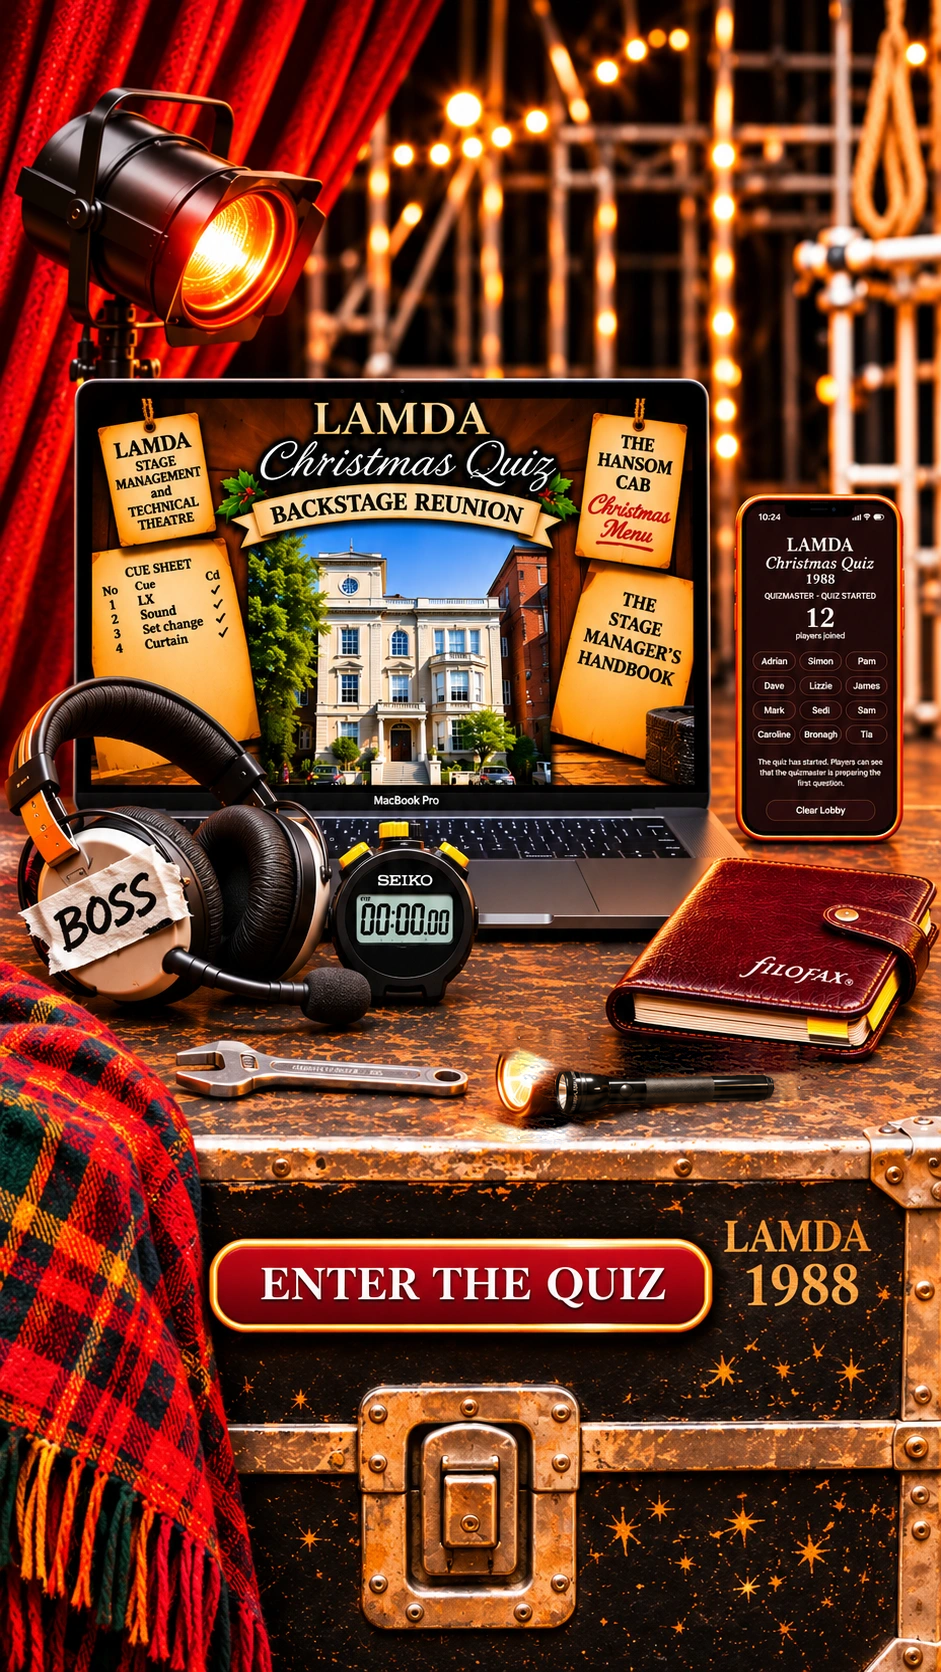
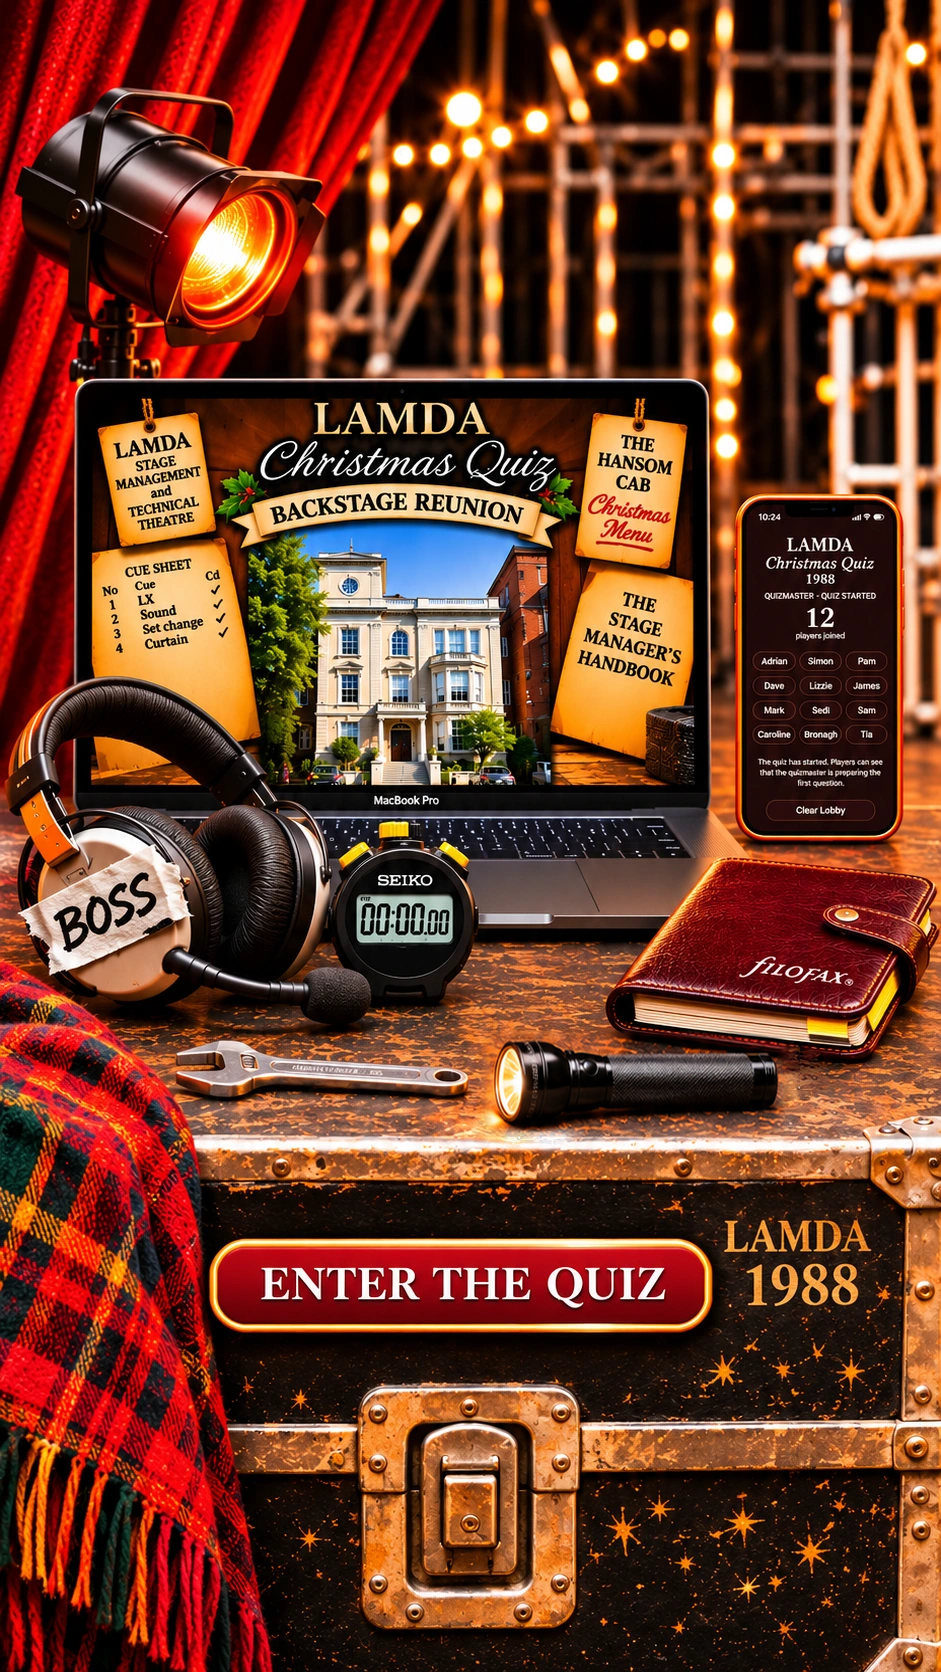
Add files via upload

Changed region(s): [[0.4931, 0.5909, 0.8321, 0.6842]]

diff --git a/index.html b/index.html
@@ -693,8 +693,8 @@ button:disabled{opacity:.5;cursor:not-allowed}
 <body>
 <div id="app"></div>
 <script>
-const PORTRAIT_SCENE = 'assets/landing-ios-maglite-v5.webp';
-const LANDSCAPE_SCENE = 'assets/landing-desktop-maglite-v5.webp';
+const PORTRAIT_SCENE = 'assets/landing-ios-maglite-v5.webp?torch=6';
+const LANDSCAPE_SCENE = 'assets/landing-desktop-maglite-v5.webp?torch=6';
 const OLD_QUESTIONS = [{"q": "Which building was the gateway to our LAMDA world?", "options": ["The MacOwan Theatre", "Tower House", "The Rehearsal Studio", "Upper Woburn Place"], "answer": 1}, {"q": "What was the full course name?", "options": ["Stage Management", "Technical Theatre", "Stage Management & Technical Theatre", "Production Arts"], "answer": 2}, {"q": "Which play title appears in our reunion design?", "options": ["Hamlet", "Annie Get Your Gun", "The Seagull", "Uncle Vanya"], "answer": 3}];
 const API_BASE = ''; // Same-origin Cloudflare Pages Function at /api/lobby
 const GAME_CODE = 'LAMDA1988';
